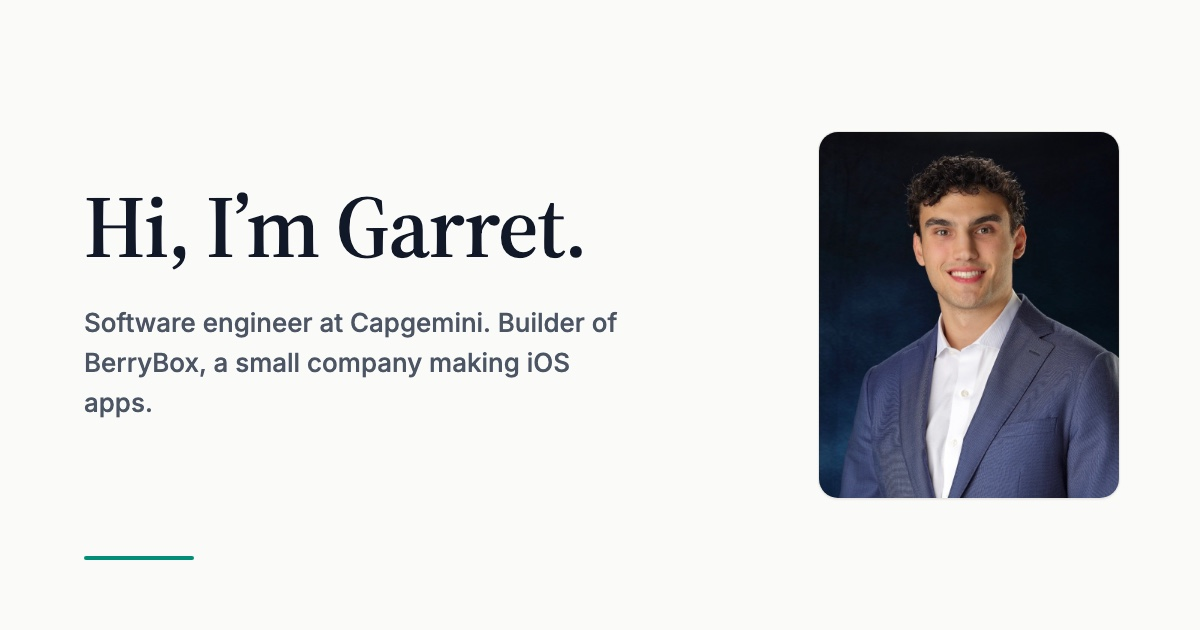
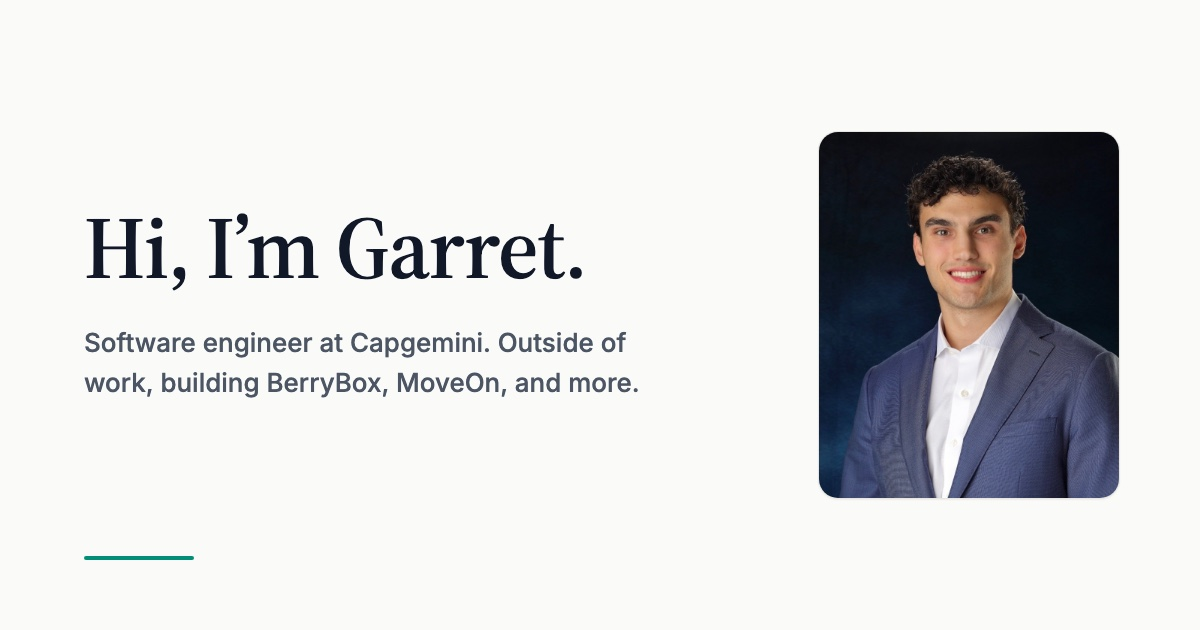
Link preview: drop 'Builder of BerryBox'
OG image and all meta descriptions now read: Software engineer at
Capgemini. Outside of work, building BerryBox, MoveOn, and more.
Search snippet also names the four apps.

Changed region(s): [[0.0617, 0.4825, 0.5242, 0.6635], [0.0617, 0.3016, 0.4933, 0.4524]]

diff --git a/index.html b/index.html
@@ -4,21 +4,21 @@
   <meta charset="utf-8">
   <meta name="viewport" content="width=device-width, initial-scale=1">
   <title>Garret Keyhani · Software Engineer</title>
-  <meta name="description" content="Software engineer at Capgemini and the person behind BerryBox, a small company making iOS apps: BeNow, Sentari, Sero, and Whenwise.">
+  <meta name="description" content="Software engineer at Capgemini. Outside of work, building BerryBox and its four iOS apps (BeNow, Sentari, Sero, Whenwise), MoveOn, and more.">
   <link rel="canonical" href="https://garretkeyhani.com/">
   <meta name="color-scheme" content="light">
   <meta name="theme-color" content="#FAFAF8">
 
   <meta property="og:type" content="website">
   <meta property="og:title" content="Garret Keyhani · Software Engineer">
-  <meta property="og:description" content="Engineer at Capgemini. Builder of BerryBox, a small company making iOS apps.">
+  <meta property="og:description" content="Software engineer at Capgemini. Outside of work, building BerryBox, MoveOn, and more.">
   <meta property="og:url" content="https://garretkeyhani.com/">
   <meta property="og:image" content="https://garretkeyhani.com/og.jpg">
   <meta property="og:image:width" content="1200">
   <meta property="og:image:height" content="630">
   <meta name="twitter:card" content="summary_large_image">
   <meta name="twitter:title" content="Garret Keyhani · Software Engineer">
-  <meta name="twitter:description" content="Engineer at Capgemini. Builder of BerryBox, a small company making iOS apps.">
+  <meta name="twitter:description" content="Software engineer at Capgemini. Outside of work, building BerryBox, MoveOn, and more.">
   <meta name="twitter:image" content="https://garretkeyhani.com/og.jpg">
 
   <link rel="icon" href="favicon.svg" type="image/svg+xml">
